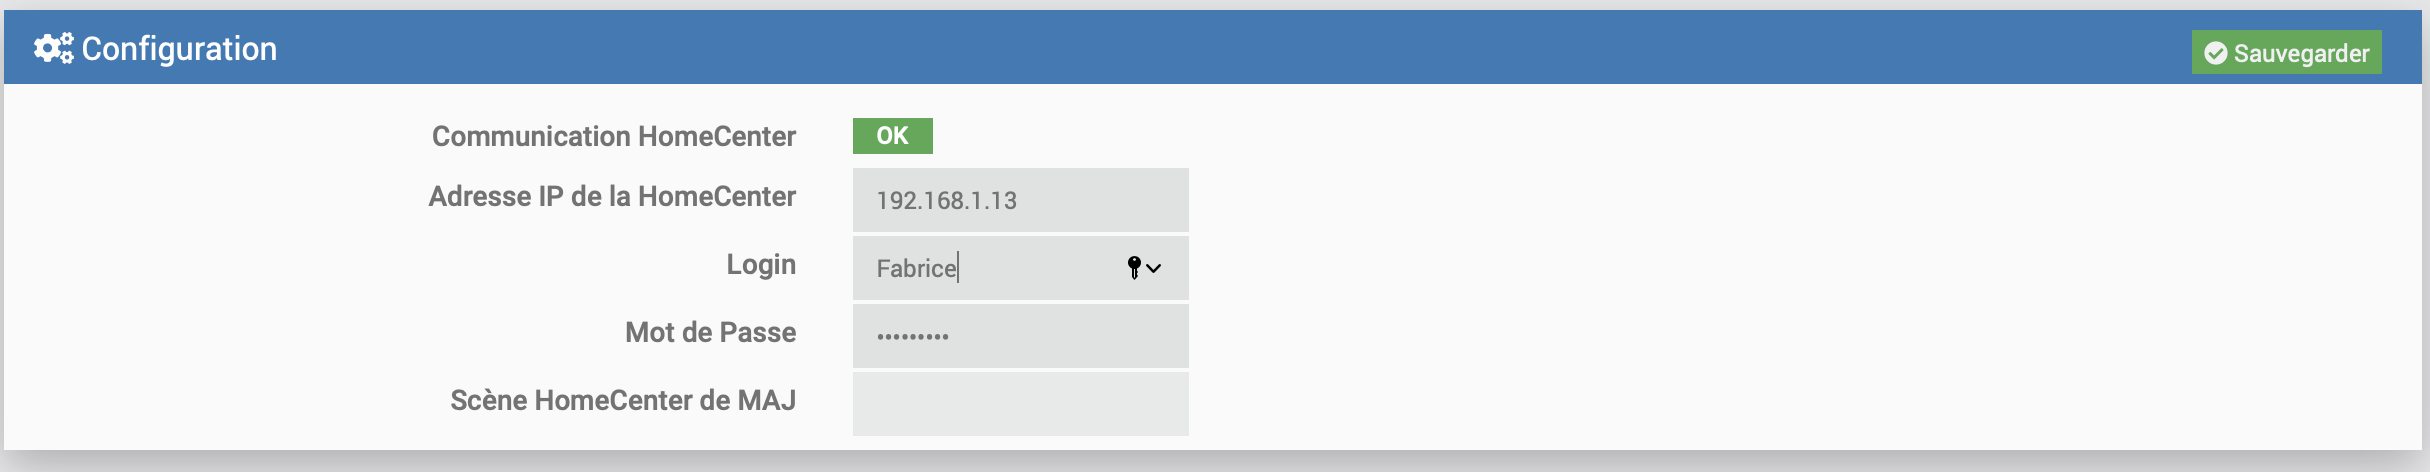
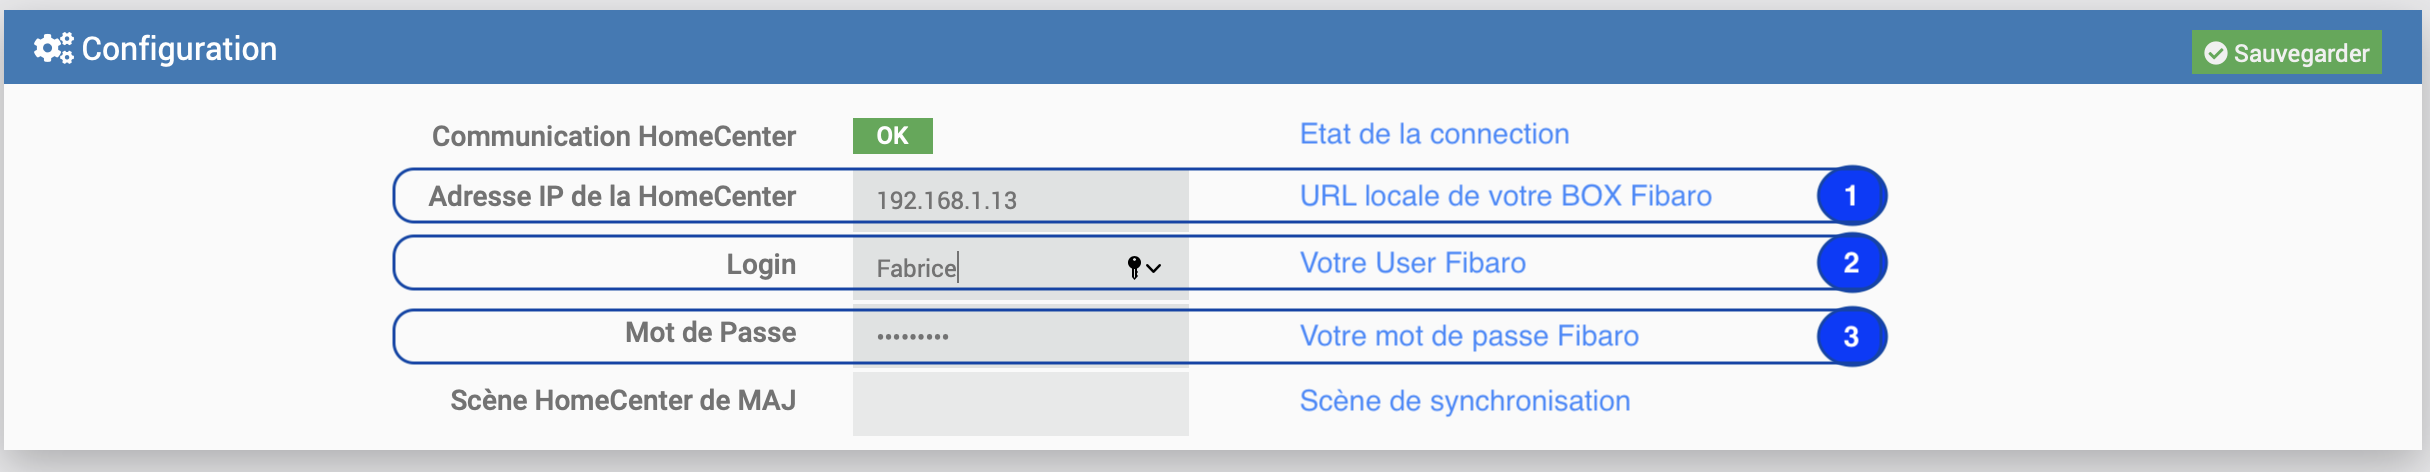
Docs

diff --git a/docs/fr_FR/index.md b/docs/fr_FR/index.md
@@ -8,11 +8,11 @@
 
 Le plugin **HomeCenter3** est composé de deux écrans principaux 
 
-![Screen7](/plugin-homecenter3/assets/images/Screen7.png)
+![Screen8](/plugin-homecenter3/assets/images/Screen8.png)
 L'écran principale vous permettant de lier vos pièces et vos équipements de votre box **FIBARO** à votre box **JEEDOM**
 
 
-![Screen8](/plugin-homecenter3/assets/images/Screen8.png)
+![Screen7](/plugin-homecenter3/assets/images/Screen7.png)
 Un écran avec une vue générale vous permettant d'ajouter et de controler l'état de vos équipement **FIBARO**. 
 
 > Cet écran liste l'ensemble des équipements visible dans votre box **FIBARO**
@@ -35,6 +35,7 @@ Voici la liste des _baseType_ actuellement gérée par le plugin :
 
 > Cette information est aussi visible et disponible dans la fenêtre d'ajout de nouveaux équipements FIBARO
 
+<!-- 
 ### Type binarySwitch et actor
 ### Type FGWP
 ### Type baseShutter
@@ -44,7 +45,7 @@ Voici la liste des _baseType_ actuellement gérée par le plugin :
 ### Type securitySensor et FGMS001
 ### Type floodSensor
 ### Type securityMonitoring
-
+-->
 
 ## Déterminer le baseType dans FIBARO
 
@@ -67,6 +68,18 @@ Vous trouverez dans la réponse l'attribut _baseType_
 ![Screen6](/plugin-homecenter3/assets/images/Screen6.png) 
 
 # Configuration du plugin 
+Avant de pouvoir utiliser le plugin quelques inforamtions sont nécessaire pour que votre box **JEEDOM** puisse se connecter à votre box **FIBARO**. Une fois le plugin activé il faut alimenter le block de configuation suivant :
+
+![Screen1](/plugin-homecenter3/assets/images/Screen1.png) 
+
+Vous retrouverez toutes ces informations sur votre page de connexion de votre box **FIBARO**
+
+![Screen2](/plugin-homecenter3/assets/images/Screen2.png) 
+> Dans la saisie de l'URL notez qu'il ne faut pas mettre le 'HTTP://'
+
+Une fois la configuration saisie et sauvegardée, en appuyant sur le bouton "Raffraichir" l'indicateur "Communication HomeCenter" doit passer à "OK". Si ce n'est pas le cas, une des informations saisies est erronée.
+
+> Le paramètre "Scène HomeCenter de MAJ" vous permet de connaitre la scène crée dans votre box **FIBARO** permettant de gérer le retour d'état de chaqu'un de vos équipement.
 
 # Configuration des équipements
 
